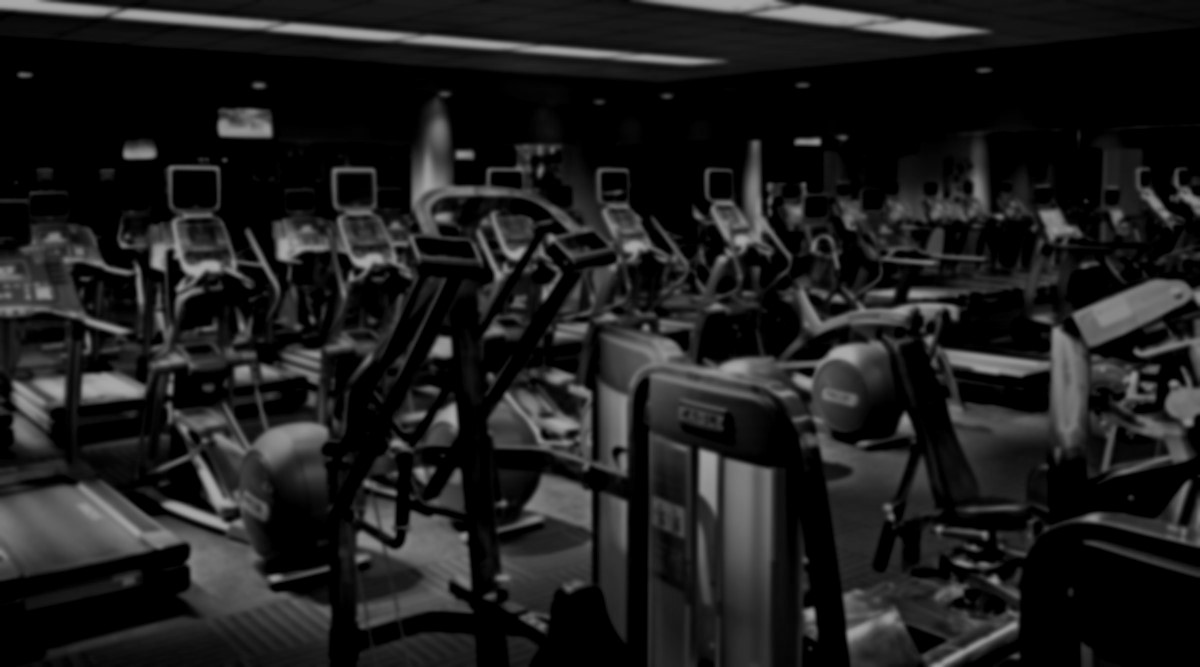
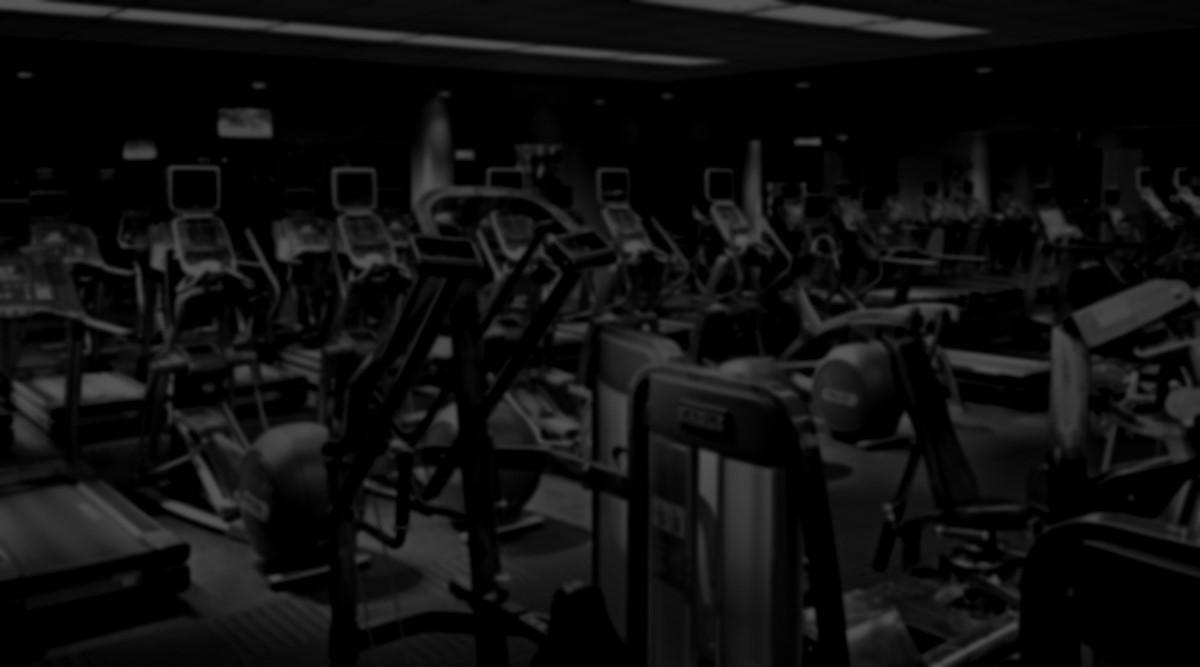
got basic routine buttons working, TODOs added in comments

diff --git a/js/app.js b/js/app.js
@@ -80,7 +80,8 @@ function activityTimer(startTime) {
     hours = padLeadingZeros(hours);
     mins = padLeadingZeros(mins);
     secs = padLeadingZeros(secs);
-    document.getElementById('timer').innerHTML = hours + ":" + mins + ":" + secs;
+    // @TODO
+    // document.getElementById('timer').innerHTML = hours + ":" + mins + ":" + secs;
 
     clearTimeout(activityTimer.interval);
     activityTimer.interval = setTimeout(function(){ activityTimer(startTime); }, 1000);
@@ -89,58 +90,9 @@ function activityTimer(startTime) {
 // Turns off activity timer
 function stopActivityTimer() {
     clearTimeout(activityTimer.interval);
-    user.activities[0].duration = document.getElementById('timer').innerHTML; // bad solution
+    // @TODO
+    // user.activities[0].duration = document.getElementById('timer').innerHTML; // bad solution
     console.log("Stopped activity timer");
-};
-
-function getRoutinesHtml(routines) {
-    let html = "";
-
-    // Build routine buttons
-    routines.forEach((routine, i) => {
-        let id = "routine" + i; // EX: routine0
-
-        html += `
-            <button type='button' class='btn btn-primary btn-lg btn-block'
-            id="${id}">${routine.name}</button><br />
-        `;
-
-        // each routine goes to the workout page with query string updated
-        $("#routine" + i).on('click', function(){
-            window.location.href = "workout.html?routine=" + routine.name;
-        });
-    });   
-
-    return html;
-};
-
-function getHomePageHtml(routines) {
-    var routinesHtml = "";
-    var homeHtml = "";
-
-    // Build routine buttons
-    routines.forEach((routine, i) => {
-        let id = "routine" + i; // EX: routine0
-
-        routinesHtml += `
-            <button type='button' class='btn btn-primary btn-lg btn-block'
-            id="${id}">${routine.name}</button><br />
-        `;
-
-        // each routine goes to the workout page with query string updated
-        $("#routine" + i).on('click', function(){
-            window.location.href = "workout.html?routine=" + routine.name;
-        });
-    });   
-
-    homeHtml = `
-        <div class="container">
-            <h1 class="display-3 text-center">Fitness Tracker</h1>
-            ${routinesHtml}
-        </div>
-    `;
-
-    return homeHtml;
 };
 
 // Seeds all available exercises
@@ -421,6 +373,56 @@ function seedPerformanceData() {
     ];
 };
 
+// HTML BUILDING
+function buildHomePageHtml(routines) {
+    var routinesHtml = "";
+    var homeHtml = "";
+    var routineIds = [];
+
+    // Build routine buttons
+    routines.forEach((routine, i) => {
+        let id = "routine" + i; // EX: routine0
+        routineIds.push(id);
+
+        routinesHtml += `
+            <button type='button' class='btn btn-primary btn-lg btn-block'
+            id="${id}">${routine.name}</button><br />
+        `;
+    });   
+
+    homeHtml = `
+        <div class="container">
+            <h1 class="display-4 text-center mt-4 mb-5">Fitness Tracker</h1>
+            ${routinesHtml}
+        </div>
+    `;
+
+    // Ensure id has been cleared before adding new content
+    $("#index").empty();
+    $("#index").append(homeHtml);
+
+    // Add click event to each routine button
+    routineIds.forEach((id, i) => {
+        $("#" + id).on('click', function(){
+            buildActivityPageHtml(user.routines[i], user.exercises);
+        });
+    });
+
+};
+
+function buildActivityPageHtml(routine, exercises) {
+    console.log(routine, exercises);
+    // @TODO
+
+    // Start new activity now
+    user.activities.push( createActivity(new Date(), null, null) );
+    activityTimer(new Date());
+};
+
+function buildSummaryPageHtml(routines, exercises) {
+    // @TODO
+};
+
 // -----BEGIN DATA-----
 var user = createUser();
 user.exercises = seedExercises();
@@ -430,11 +432,5 @@ console.log(user);
 
 // -----BEGIN HTML-----
 $(document).ready(function(){
-    // Build Home page
-    var homeHtml = getHomePageHtml(user.routines);
-    $("#home").append(homeHtml);
-
-    // Start new activity now
-    user.activities.push( createActivity(new Date(), null, null) );
-    activityTimer(new Date());
+    buildHomePageHtml(user.routines);
 });

diff --git a/index.html b/index.html
@@ -7,9 +7,11 @@
 
         <title>Fitness Tracker</title>
 
+        <!--Favicon and my CSS-->
         <link rel="shortcut icon" href="assets/favicon.png" />
         <link rel="stylesheet" href="css/styles.css" />
 
+        <!--CDN Links-->
         <link
             href="https://fonts.googleapis.com/css?family=Roboto:400,700&display=swap"
             rel="stylesheet"
@@ -26,18 +28,8 @@
         />
     </head>
     <body>
-        <div class="container">
-            <h3 id="timer"></h3>
-            <button
-                type="button"
-                class="btn btn-primary"
-                onclick="stopActivityTimer()"
-            >
-                Timer
-            </button>
-        </div>
-
-        <span id="home"></span>
+        <!--Main Page-->
+        <div class="container" id="index"></div>
 
         <!--Body Scripts-->
         <script
@@ -55,6 +47,7 @@
             integrity="sha384-JZR6Spejh4U02d8jOt6vLEHfe/JQGiRRSQQxSfFWpi1MquVdAyjUar5+76PVCmYl"
             crossorigin="anonymous"
         ></script>
+        <!--My JS-->
         <script type="text/javascript" src="js/app.js"></script>
     </body>
 </html>

diff --git a/css/styles.css b/css/styles.css
@@ -4,6 +4,11 @@ body {
     margin: 0;
     padding: 0;
     font-family: "Roboto", sans-serif;
-    color: white;
-    background: #fff0c0 !important;
+    background: url("../assets/fitness-center.jpg") no-repeat center center
+        fixed;
+    -webkit-background-size: cover;
+    -moz-background-size: cover;
+    -o-background-size: cover;
+    background-size: cover;
+    color: white !important;
 }
